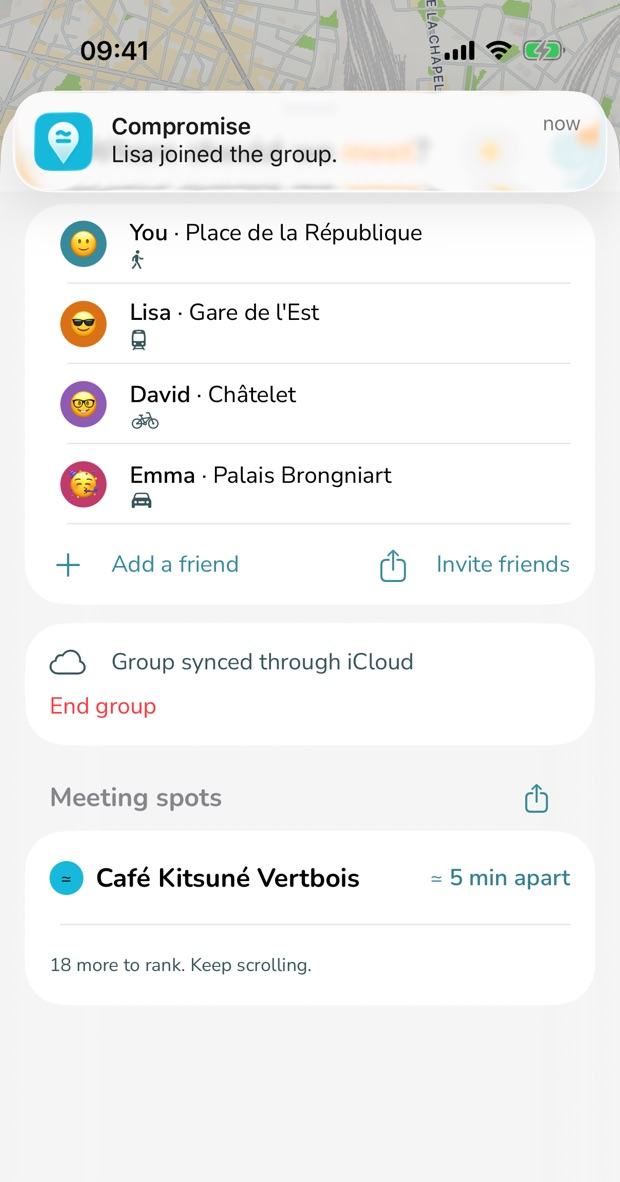
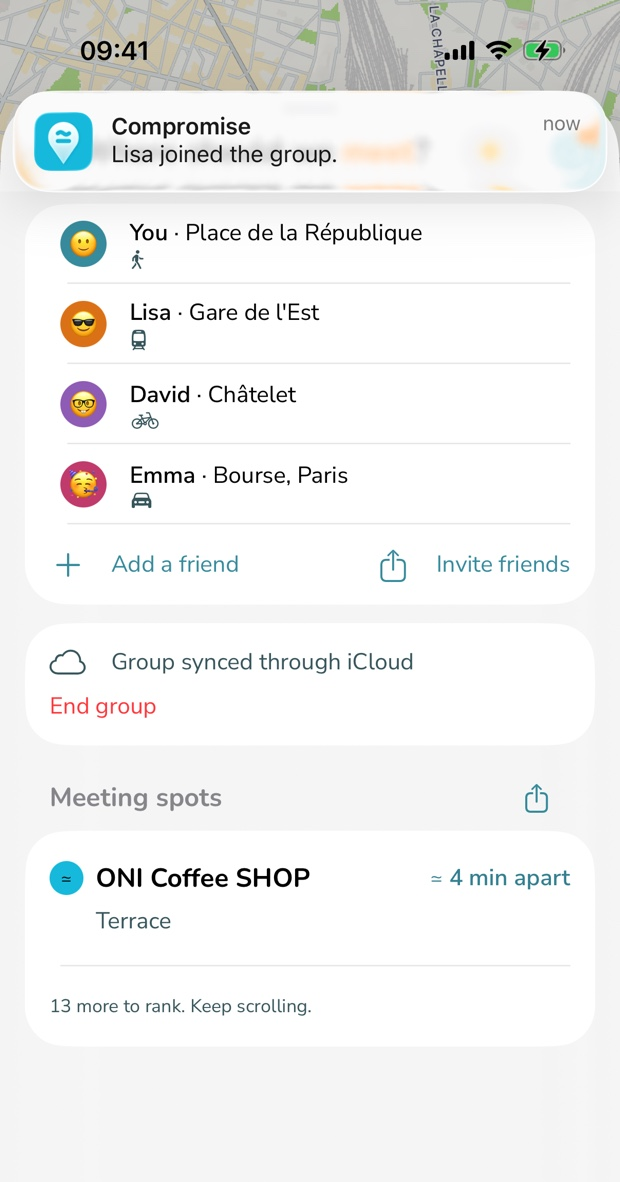
Groups: both phones tell one story
Emma's start on the organiser's phone now reads "Bourse, Paris", as on
her form; the captions say whose phone each is (Nino's, Emma's); the
fallback panel uses the same people.

Claude-Session: https://claude.ai/code/session_01DPYBVo6XJBHKjMg9L24xGH

diff --git a/_includes/landing-en.html b/_includes/landing-en.html
@@ -192,14 +192,14 @@
       <div class="visual" id="shot-group">
         <!-- Screenshot slots: img/en/group-live.jpg, 620 × 1182 (the app, cropped), and img/en/group.jpg, 620 × 1348 (the App Clip form, shown to the same height) -->
         <div class="phones">
-          <figure><figcaption>With the app</figcaption><div class="phone"><div class="screen short"><div class="island"></div><img class="shot" src="/img/en/group-live.jpg" width="620" height="1182" alt="The app: a notification says Lisa joined the group, above the four people and the group synced through iCloud" onload="this.closest('.visual').classList.add('has-shot')" onerror="this.remove()"></div></div><p class="phone-note">Lisa joined; her start is on every phone.</p></figure>
-          <figure><figcaption>Without the app</figcaption><div class="phone"><div class="screen short"><div class="island"></div><img class="shot" src="/img/en/group.jpg" width="620" height="1348" alt="The form a friend sees from the link, filled in by Emma: her start and how she travels" onload="this.closest('.visual').classList.add('has-shot')" onerror="this.remove()"></div></div><p class="phone-note">Emma answered from the link.</p></figure>
+          <figure><figcaption>With the app</figcaption><div class="phone"><div class="screen short"><div class="island"></div><img class="shot" src="/img/en/group-live.jpg" width="620" height="1182" alt="The app: a notification says Lisa joined the group, above the four people and the group synced through iCloud" onload="this.closest('.visual').classList.add('has-shot')" onerror="this.remove()"></div></div><p class="phone-note">On Nino’s phone: Lisa just joined, and Emma’s answer is in.</p></figure>
+          <figure><figcaption>Without the app</figcaption><div class="phone"><div class="screen short"><div class="island"></div><img class="shot" src="/img/en/group.jpg" width="620" height="1348" alt="The form a friend sees from the link, filled in by Emma: her start and how she travels" onload="this.closest('.visual').classList.add('has-shot')" onerror="this.remove()"></div></div><p class="phone-note">On Emma’s phone: Nino’s link, no app needed.</p></figure>
         </div>
-        <div class="panel group" role="img" aria-label="Illustration: an invite link sent to a group; Nino joined with the app, Léa answered from the link.">
+        <div class="panel group" role="img" aria-label="Illustration: Nino’s invite link; Lisa joined with the app, Emma answered from the link.">
           <div class="invite"><svg viewBox="0 0 24 24" fill="none" stroke="currentColor" stroke-width="2" stroke-linecap="round" aria-hidden="true"><path d="M10 14a4 4 0 0 0 5.7 0l3-3a4 4 0 0 0-5.7-5.7l-1 1"/><path d="M14 10a4 4 0 0 0-5.7 0l-3 3a4 4 0 0 0 5.7 5.7l1-1"/></svg><span>Friday drinks · invite link</span></div>
           <div class="member"><i style="background: var(--p1)"></i><span><b>You</b> · <svg class="ico" aria-hidden="true"><use href="#m-walk"/></svg>walk</span><small>Organiser</small></div>
-          <div class="member"><i style="background: var(--p2)"></i><span><b>Nino</b> · <svg class="ico" aria-hidden="true"><use href="#m-transit"/></svg>transit</span><small class="live">Joined · live</small></div>
-          <div class="member"><i style="background: var(--p3)"></i><span><b>Léa</b> · <svg class="ico" aria-hidden="true"><use href="#m-bike"/></svg>bike</span><small>Answered from the link</small></div>
+          <div class="member"><i style="background: var(--p2)"></i><span><b>Lisa</b> · <svg class="ico" aria-hidden="true"><use href="#m-transit"/></svg>transit</span><small class="live">Joined · live</small></div>
+          <div class="member"><i style="background: var(--p3)"></i><span><b>Emma</b> · <svg class="ico" aria-hidden="true"><use href="#m-car"/></svg>car</span><small>Answered from the link</small></div>
         </div>
       </div>
     </div>
